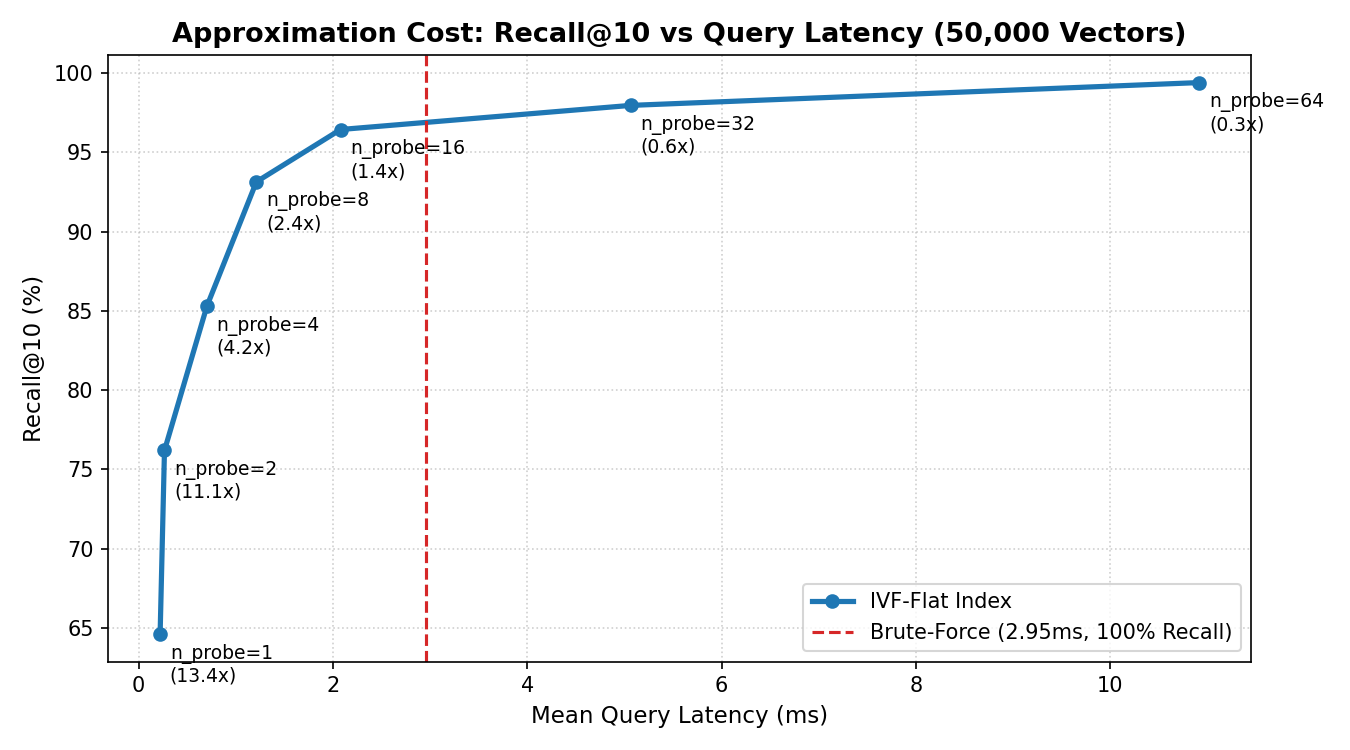
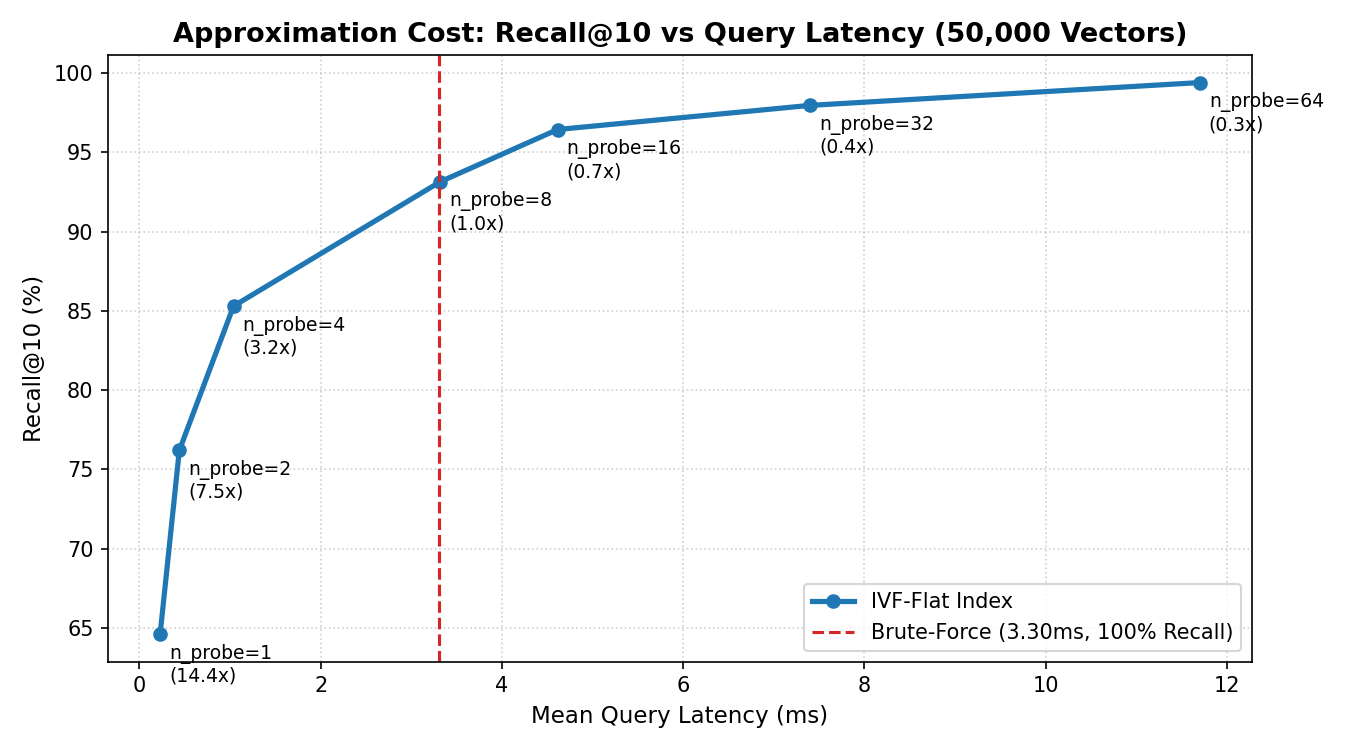
Implement atomic API insert with rollback, dynamic IVF stats, and benchmark warm-up

diff --git a/api/server.py b/api/server.py
@@ -153,7 +153,12 @@ def get_stats():
         "dimension": dimension,
         "indices": {
             "brute_force": {"active_vectors": total_bf, "type": "exact_linear_scan"},
-            "ivf_flat": {"active_vectors": total_ivf, "n_clusters": 256, "default_n_probe": 8}
+            "ivf_flat": {
+                "active_vectors": total_ivf,
+                "n_clusters": ivf_index.n_clusters if ivf_index else 0,
+                "default_n_probe": ivf_index.n_probe if ivf_index else 0,
+                "is_trained": ivf_index.is_trained if ivf_index else False
+            }
         }
     }
 
@@ -224,11 +229,24 @@ def insert_vector(req: InsertRequest):
     else:
         raise HTTPException(status_code=400, detail="Must provide either 'text' or 'vector'")
 
+    if not ivf_index.is_trained:
+        raise HTTPException(
+            status_code=400,
+            detail="IVFFlatIndex must be trained via train() or build_index() before single inserts."
+        )
+
+    # Atomic insertion across both indices with rollback on failure
+    try:
+        ivf_index.insert(req.id, vec, req.metadata)
+    except Exception as e:
+        raise HTTPException(status_code=400, detail=f"Failed to insert into IVF-Flat index: {e}")
+
     try:
         bf_index.insert(req.id, vec, req.metadata)
-        ivf_index.insert(req.id, vec, req.metadata)
-    except RuntimeError as e:
-        raise HTTPException(status_code=400, detail=str(e))
+    except Exception as e:
+        # Rollback IVF insertion if BruteForce insert fails
+        ivf_index.delete(req.id)
+        raise HTTPException(status_code=500, detail=f"Failed to insert into Brute-Force index: {e}")
 
     return GenericResponse(
         status="success",

diff --git a/evaluation/benchmark.py b/evaluation/benchmark.py
@@ -54,6 +54,10 @@ def run_benchmarks():
     bf_build_time = time.time() - t0
     print(f"Brute-Force index built in {bf_build_time:.4f}s.")
 
+    # Warm-up CPU caches and BLAS threads (unmeasured)
+    for wq in queries[:10]:
+        _ = bf_index.search(wq, top_k=10)
+
     bf_latencies = []
     for q in queries:
         t_start = time.perf_counter_ns()
@@ -77,6 +81,10 @@ def run_benchmarks():
     ivf_index.build_index(vectors, list(range(n_vectors)))
     ivf_build_time = time.time() - t0
     print(f"IVF-Flat Index built in {ivf_build_time:.2f}s.")
+
+    # Warm-up IVF search
+    for wq in queries[:10]:
+        _ = ivf_index.search(wq, top_k=10, n_probe=8)
 
     probe_list = [1, 2, 4, 8, 16, 32, 64]
     ivf_results = []

diff --git a/tests/test_api.py b/tests/test_api.py
@@ -30,7 +30,10 @@ def test_stats(client):
     data = resp.json()
     assert "total_vectors" in data
     assert data["dimension"] == 384
-    assert data["indices"]["ivf_flat"]["n_clusters"] == 256 or data["total_vectors"] > 0
+    ivf_info = data["indices"]["ivf_flat"]
+    assert ivf_info["n_clusters"] in (4, 256)
+    assert ivf_info["default_n_probe"] in (2, 8)
+    assert ivf_info["is_trained"] is True
 
 
 def test_search_and_crud(client):
